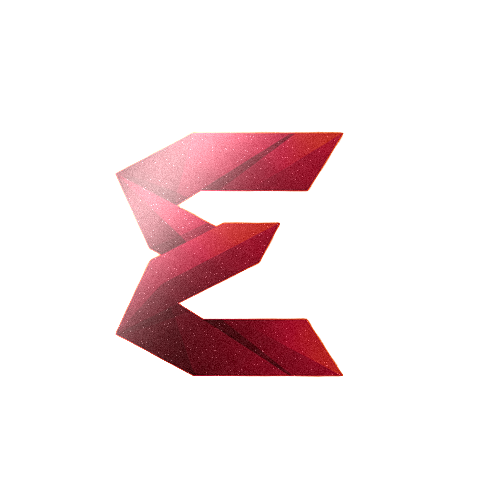
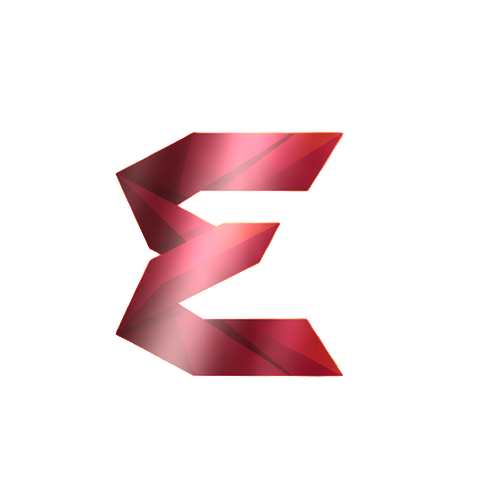
Replace flake-sparkle metallic effect with brushed-metal look
Logo/icon/favicons and CSS button/tab/progress gradients now use
multi-band soft brushed-metal streaks (matching the reference brushed
aluminum swatches) instead of random speckle/flake noise. Same ruby/rust
color family throughout, no color change -- only the sheen texture.

Changed region(s): [[0.2188, 0.25, 0.6562, 0.7812]]

diff --git a/src/styles.css b/src/styles.css
@@ -93,7 +93,7 @@ button {
 .view-mode-tab.active {
   background:
     linear-gradient(180deg, rgba(255, 255, 255, 0.35), rgba(255, 255, 255, 0) 45%),
-    linear-gradient(135deg, #5c150c 0%, #a01029 20%, #e2500f 42%, #fff6e6 52%, #e2500f 62%, #a01029 82%, #5c150c 100%);
+    linear-gradient(135deg, #5c150c 0%, #6e1916 4%, #882429 8%, #96232e 12%, #981729 16%, #af1f38 20%, #cf3f48 24%, #ca3932 28%, #e04f37 32%, #ff966e 36%, #ffcc93 40%, #ffa867 44%, #fe6c2b 48%, #f2601f 52%, #ff6e2d 56%, #e8571e 60%, #d4431a 64%, #db4a32 68%, #e5544d 72%, #c3333c 76%, #a4142d 80%, #9a192b 84%, #97242f 88%, #7f1a1f 92%, #6a1512 96%, #5c150c 100%);
   color: white;
 }
 
@@ -632,7 +632,7 @@ button {
 .nav-button:hover {
   background:
     linear-gradient(180deg, rgba(255, 255, 255, 0.35), rgba(255, 255, 255, 0) 45%),
-    linear-gradient(135deg, #5c150c 0%, #a01029 20%, #e2500f 42%, #fff6e6 52%, #e2500f 62%, #a01029 82%, #5c150c 100%);
+    linear-gradient(135deg, #5c150c 0%, #6e1916 4%, #882429 8%, #96232e 12%, #981729 16%, #af1f38 20%, #cf3f48 24%, #ca3932 28%, #e04f37 32%, #ff966e 36%, #ffcc93 40%, #ffa867 44%, #fe6c2b 48%, #f2601f 52%, #ff6e2d 56%, #e8571e 60%, #d4431a 64%, #db4a32 68%, #e5544d 72%, #c3333c 76%, #a4142d 80%, #9a192b 84%, #97242f 88%, #7f1a1f 92%, #6a1512 96%, #5c150c 100%);
   color: white;
 }
 
@@ -818,7 +818,7 @@ button {
 .account-menu-admin-link.active {
   background:
     linear-gradient(180deg, rgba(255, 255, 255, 0.35), rgba(255, 255, 255, 0) 45%),
-    linear-gradient(135deg, #5c150c 0%, #a01029 20%, #e2500f 42%, #fff6e6 52%, #e2500f 62%, #a01029 82%, #5c150c 100%);
+    linear-gradient(135deg, #5c150c 0%, #6e1916 4%, #882429 8%, #96232e 12%, #981729 16%, #af1f38 20%, #cf3f48 24%, #ca3932 28%, #e04f37 32%, #ff966e 36%, #ffcc93 40%, #ffa867 44%, #fe6c2b 48%, #f2601f 52%, #ff6e2d 56%, #e8571e 60%, #d4431a 64%, #db4a32 68%, #e5544d 72%, #c3333c 76%, #a4142d 80%, #9a192b 84%, #97242f 88%, #7f1a1f 92%, #6a1512 96%, #5c150c 100%);
   color: white;
 }
 
@@ -1577,7 +1577,7 @@ td small {
   align-items: center;
   background:
     linear-gradient(180deg, rgba(255, 255, 255, 0.38), rgba(255, 255, 255, 0) 45%),
-    linear-gradient(135deg, #5c150c 0%, #a01029 20%, #e2500f 42%, #fff6e6 52%, #e2500f 62%, #a01029 82%, #5c150c 100%);
+    linear-gradient(135deg, #5c150c 0%, #6e1916 4%, #882429 8%, #96232e 12%, #981729 16%, #af1f38 20%, #cf3f48 24%, #ca3932 28%, #e04f37 32%, #ff966e 36%, #ffcc93 40%, #ffa867 44%, #fe6c2b 48%, #f2601f 52%, #ff6e2d 56%, #e8571e 60%, #d4431a 64%, #db4a32 68%, #e5544d 72%, #c3333c 76%, #a4142d 80%, #9a192b 84%, #97242f 88%, #7f1a1f 92%, #6a1512 96%, #5c150c 100%);
   border: 1px solid #5c150c;
   border-radius: 8px;
   box-shadow: inset 0 1px 0 rgba(255, 255, 255, 0.4), inset 0 -1px 0 rgba(0, 0, 0, 0.25);
@@ -1687,7 +1687,7 @@ td small {
 .segmented-tabs button.active {
   background:
     linear-gradient(180deg, rgba(255, 255, 255, 0.35), rgba(255, 255, 255, 0) 45%),
-    linear-gradient(135deg, #5c150c 0%, #a01029 20%, #e2500f 42%, #fff6e6 52%, #e2500f 62%, #a01029 82%, #5c150c 100%);
+    linear-gradient(135deg, #5c150c 0%, #6e1916 4%, #882429 8%, #96232e 12%, #981729 16%, #af1f38 20%, #cf3f48 24%, #ca3932 28%, #e04f37 32%, #ff966e 36%, #ffcc93 40%, #ffa867 44%, #fe6c2b 48%, #f2601f 52%, #ff6e2d 56%, #e8571e 60%, #d4431a 64%, #db4a32 68%, #e5544d 72%, #c3333c 76%, #a4142d 80%, #9a192b 84%, #97242f 88%, #7f1a1f 92%, #6a1512 96%, #5c150c 100%);
   color: white;
 }
 
@@ -1876,7 +1876,7 @@ td small {
 .table-action {
   background:
     linear-gradient(180deg, rgba(255, 255, 255, 0.38), rgba(255, 255, 255, 0) 45%),
-    linear-gradient(135deg, #5c150c 0%, #a01029 20%, #e2500f 42%, #fff6e6 52%, #e2500f 62%, #a01029 82%, #5c150c 100%);
+    linear-gradient(135deg, #5c150c 0%, #6e1916 4%, #882429 8%, #96232e 12%, #981729 16%, #af1f38 20%, #cf3f48 24%, #ca3932 28%, #e04f37 32%, #ff966e 36%, #ffcc93 40%, #ffa867 44%, #fe6c2b 48%, #f2601f 52%, #ff6e2d 56%, #e8571e 60%, #d4431a 64%, #db4a32 68%, #e5544d 72%, #c3333c 76%, #a4142d 80%, #9a192b 84%, #97242f 88%, #7f1a1f 92%, #6a1512 96%, #5c150c 100%);
   border: 1px solid #5c150c;
   border-radius: 8px;
   box-shadow: inset 0 1px 0 rgba(255, 255, 255, 0.4), inset 0 -1px 0 rgba(0, 0, 0, 0.25);
@@ -2091,7 +2091,7 @@ td small {
 .progress-cell b {
   background:
     linear-gradient(180deg, rgba(255, 255, 255, 0.35), rgba(255, 255, 255, 0) 55%),
-    linear-gradient(90deg, #5c150c 0%, #a01029 20%, #e2500f 42%, #fff6e6 52%, #e2500f 62%, #a01029 82%, #5c150c 100%);
+    linear-gradient(90deg, #5c150c 0%, #6e1916 4%, #882429 8%, #96232e 12%, #981729 16%, #af1f38 20%, #cf3f48 24%, #ca3932 28%, #e04f37 32%, #ff966e 36%, #ffcc93 40%, #ffa867 44%, #fe6c2b 48%, #f2601f 52%, #ff6e2d 56%, #e8571e 60%, #d4431a 64%, #db4a32 68%, #e5544d 72%, #c3333c 76%, #a4142d 80%, #9a192b 84%, #97242f 88%, #7f1a1f 92%, #6a1512 96%, #5c150c 100%);
   display: block;
   height: 100%;
 }
@@ -3831,7 +3831,7 @@ td.empty-compact-state {
 .bar-row i {
   background:
     linear-gradient(180deg, rgba(255, 255, 255, 0.35), rgba(255, 255, 255, 0) 55%),
-    linear-gradient(90deg, #5c150c 0%, #a01029 20%, #e2500f 42%, #fff6e6 52%, #e2500f 62%, #a01029 82%, #5c150c 100%);
+    linear-gradient(90deg, #5c150c 0%, #6e1916 4%, #882429 8%, #96232e 12%, #981729 16%, #af1f38 20%, #cf3f48 24%, #ca3932 28%, #e04f37 32%, #ff966e 36%, #ffcc93 40%, #ffa867 44%, #fe6c2b 48%, #f2601f 52%, #ff6e2d 56%, #e8571e 60%, #d4431a 64%, #db4a32 68%, #e5544d 72%, #c3333c 76%, #a4142d 80%, #9a192b 84%, #97242f 88%, #7f1a1f 92%, #6a1512 96%, #5c150c 100%);
   display: block;
   height: 100%;
 }
